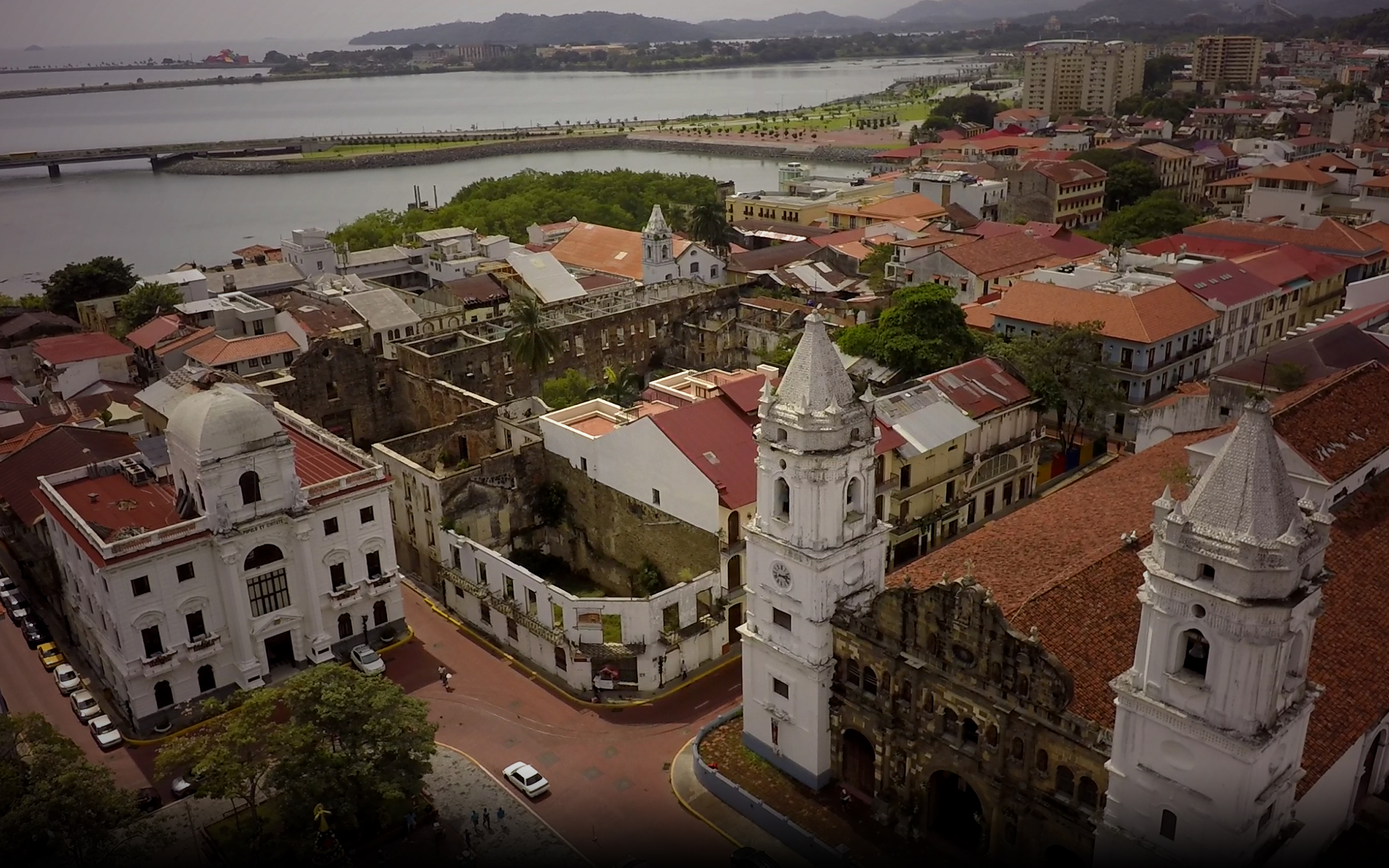
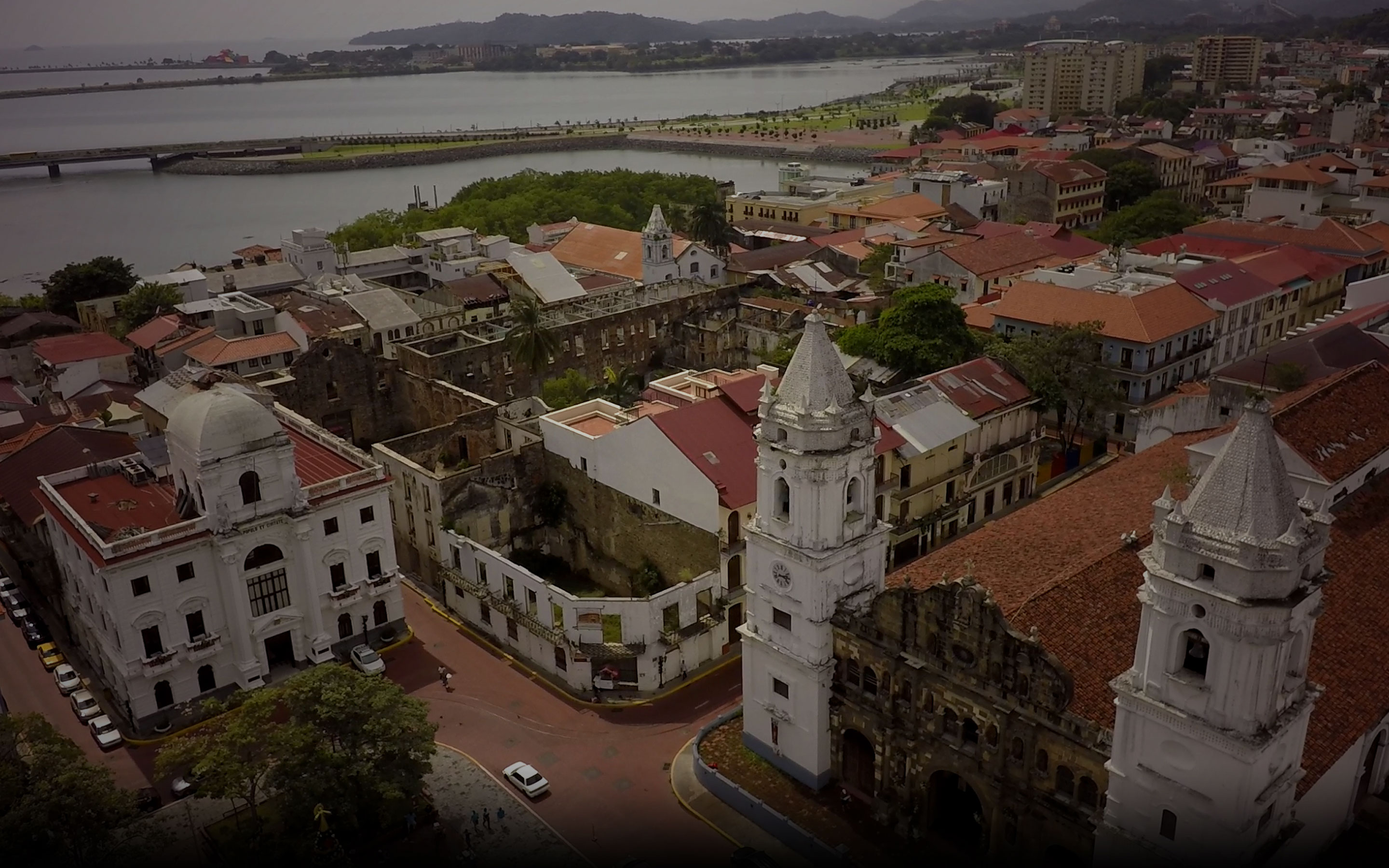
:engine: Remove some unneded CSS and put compressed img

diff --git a/developers_eyes/static/html/developers_eyes.html b/developers_eyes/static/html/developers_eyes.html
@@ -1,6 +1,5 @@
 <link href="https://fonts.googleapis.com/css?family=Hind:300,400,700|Lora|Roboto+Condensed:300,400,700|Roboto:300,400,700" rel="stylesheet">
 <div class="developers_eyes_block">
-  <div class="black-cover"></div>
   <div id="container">
       <a id="placemakingPotential" href="#">Placemaking potential</a>
       <a id="streetGrid" href="#">Street grid</a>

diff --git a/developers_eyes/public/css/developers_eyes.css b/developers_eyes/public/css/developers_eyes.css
@@ -10,10 +10,6 @@
     font-style: normal;
 }
 
-html {
-  font: inherit;
-}
-
 .xblock-render {
   position: relative;
   min-height: 400px;
@@ -35,15 +31,6 @@ html {
 
 .developers_eyes_block {
   background: black;
-}
-
-.black-cover {
-  position: absolute;
-  width: 100%;
-  height: 100%;
-  z-index: 1;
-  opacity: .2;
-  background-color: #000;
 }
 
 #container {
